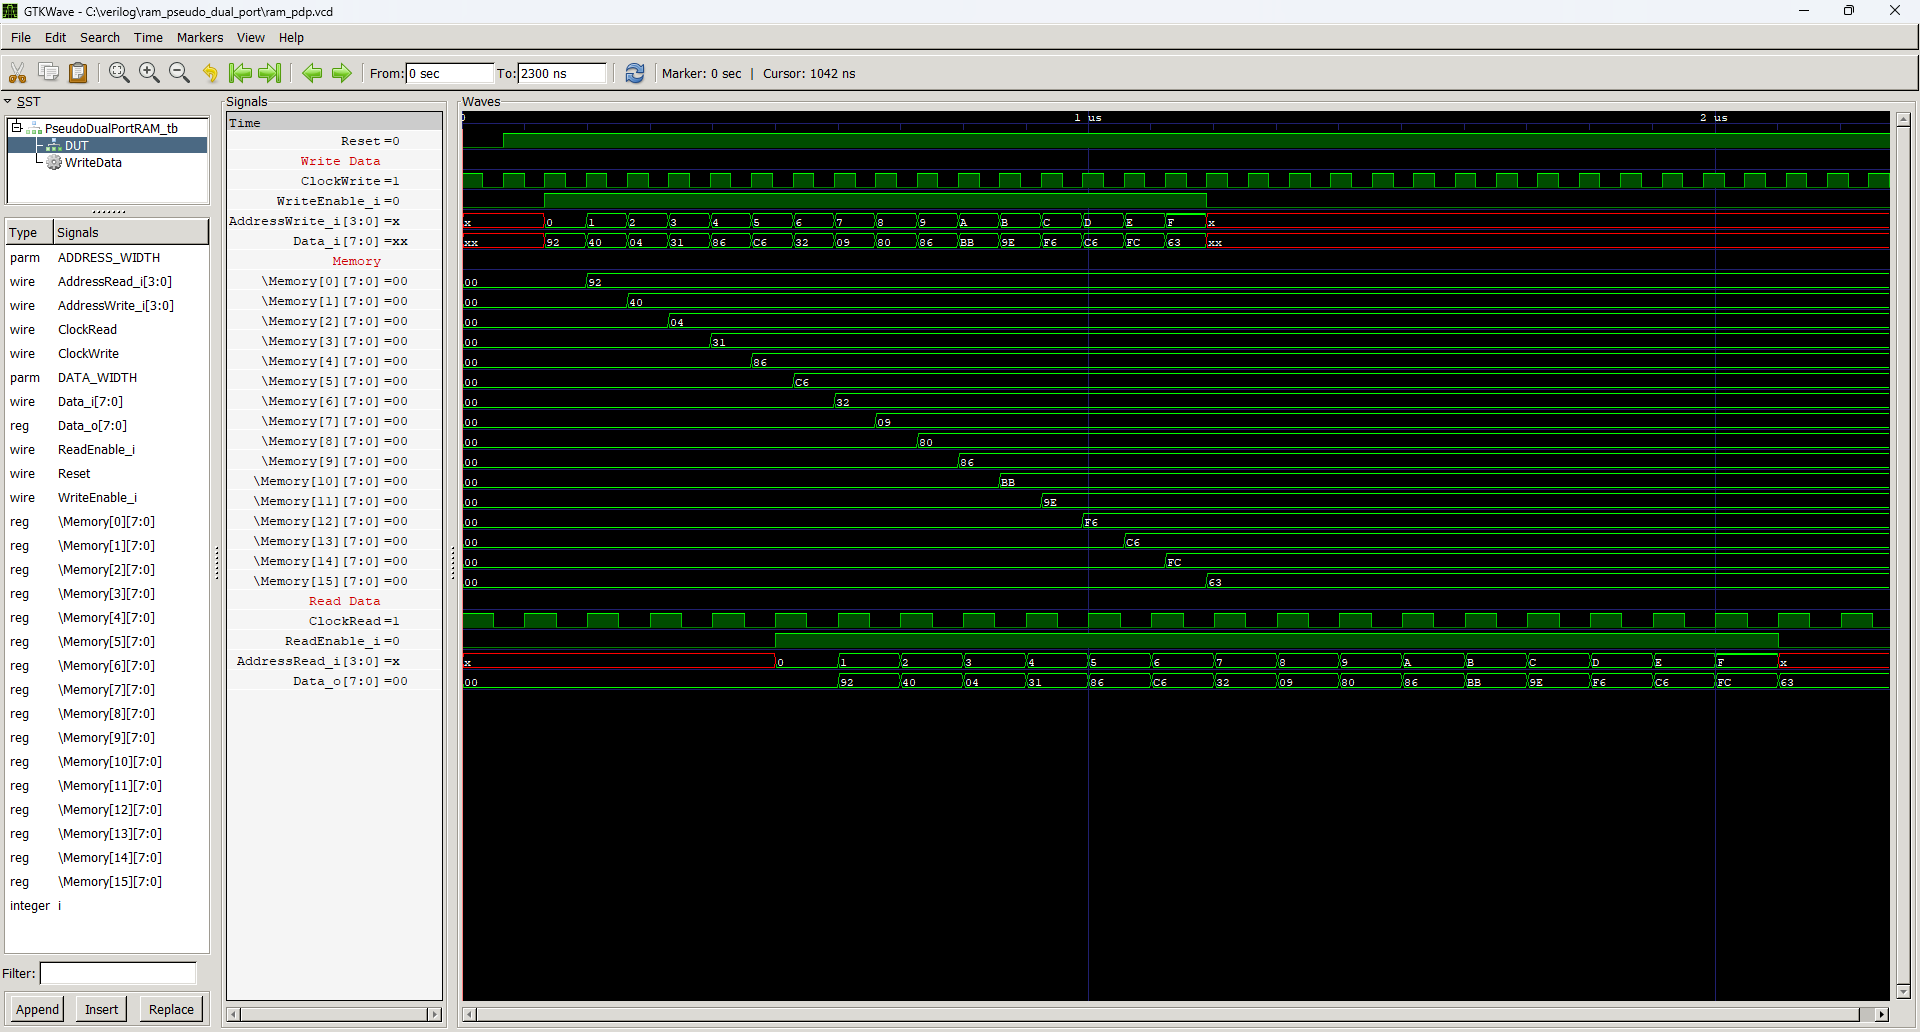
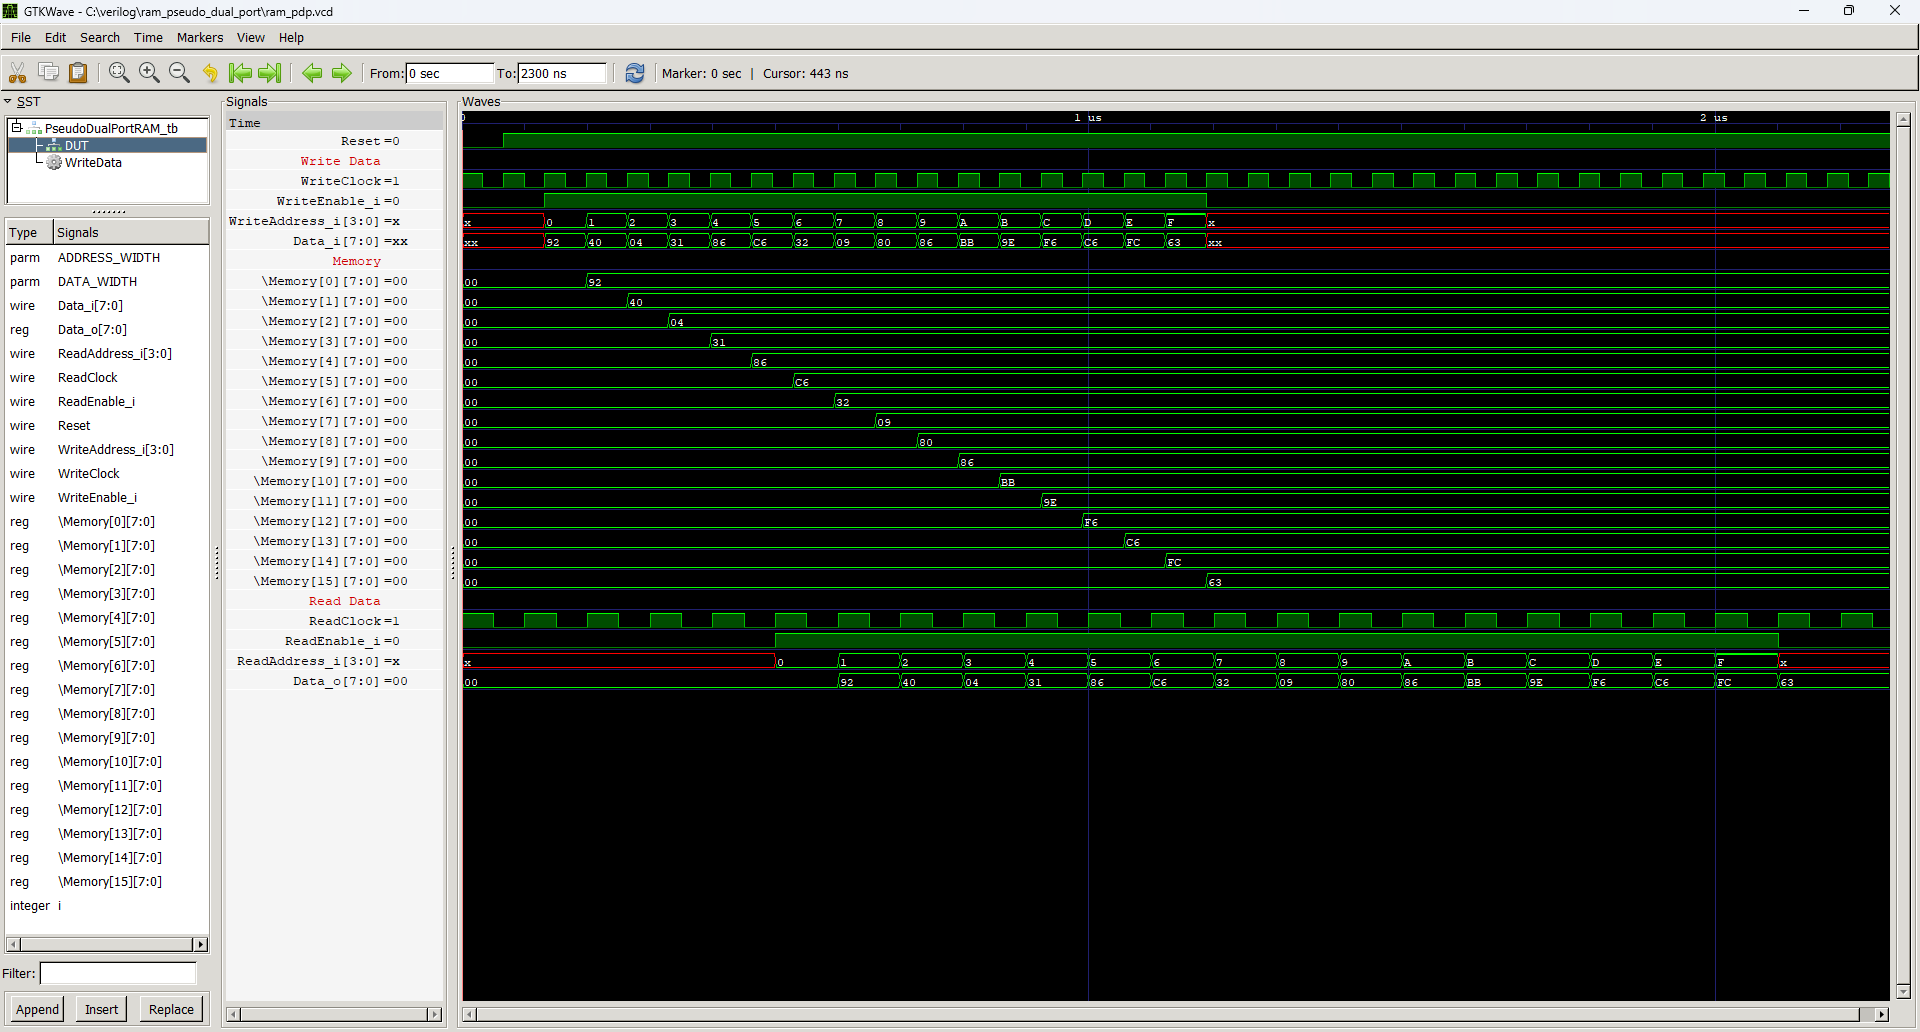
Pseudo Dual Port RAM ready

diff --git a/ram_pseudo_dual_port/readme.md b/ram_pseudo_dual_port/readme.md
@@ -11,13 +11,13 @@ RAM memory with a separate address port for reading data and a separate one for 
 		.ADDRESS_WIDTH(),
 		.DATA_WIDTH(8)
 	) DUT(
-		.ClockRead(ClockRead),
-		.ClockWrite(ClockWrite),
+		.ReadClock(ReadClock),
+		.WriteClock(WriteClock),
 		.Reset(Reset),
 		.ReadEnable_i(),
 		.WriteEnable_i(),
-		.AddressRead_i(),
-		.AddressWrite_i(),
+		.ReadAddress_i(),
+		.WriteAddress_i(),
 		.Data_i(),
 		.Data_o()
 	);
@@ -27,13 +27,13 @@ RAM memory with a separate address port for reading data and a separate one for 
 
 + **ADDRESS_WIDTH** - Number of address bus bits. Determines the size of the memory. The memory size is equal to 2^ADDRESS_WIDTH.
 + **DATA_WIDTH** - Number of data bus bits. Most common values are 8, 16 and 32. 
-+ **ClockRead** - Clock signal for read port, active rising edge.
-+ **ClockWrite** - Clock signal for write port, active rising edge.
++ **ReadClock** - Clock signal for read port, active rising edge.
++ **WriteClock** - Clock signal for write port, active rising edge.
 + **Reset** - Asynchronous reset, active low.
 + **ReadEnable_i** - If 1 then on the next clock edge the requested data is output on `Data_o`.
 + **WriteEnable_i** - If 1 then on the next clock edge the data delivered on `Data_i` is written to selected address.
-+ **AddressRead_i[ADDRESS_WIDTH-1:0]** - Address of the byte requested to be read on the next clock edge.
-+ **AddressWrite_i[ADDRESS_WIDTH-1:0]** - Address of the byte requested to be written on the next clock edge.
++ **ReadAddress_i[ADDRESS_WIDTH-1:0]** - Address of the byte requested to be read on the next clock edge.
++ **WriteAddress_i[ADDRESS_WIDTH-1:0]** - Address of the byte requested to be written on the next clock edge.
 + **Data_i[DATA_WIDTH-1:0]** - Data to be written to the requestred address.
 + **Data_o[DATA_WIDTH-1:0]** - Data read from the requested address.
     
@@ -61,7 +61,7 @@ RAM memory with a separate address port for reading data and a separate one for 
     VCD warning: array word PseudoDualPortRAM_tb.DUT.Memory[14] will conflict with an escaped identifier.
     VCD warning: array word PseudoDualPortRAM_tb.DUT.Memory[15] will conflict with an escaped identifier.
     ===== START =====
-            Time AddressWrite DataIn AddressRead DataOut
+            Time WriteAddress DataIn ReadAddress DataOut
          0.000us            x     xx           x      00
          0.132us            0     92           x      00
          0.198us            1     40           x      00
